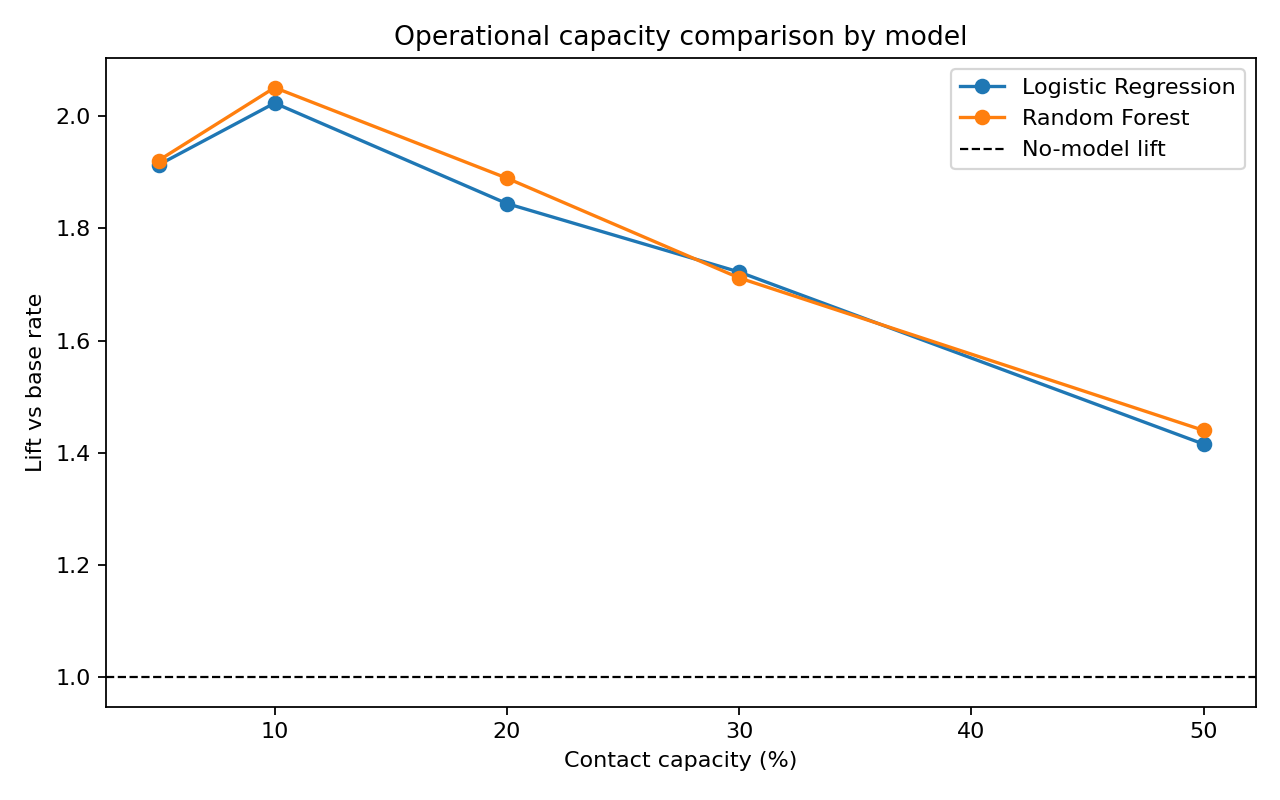
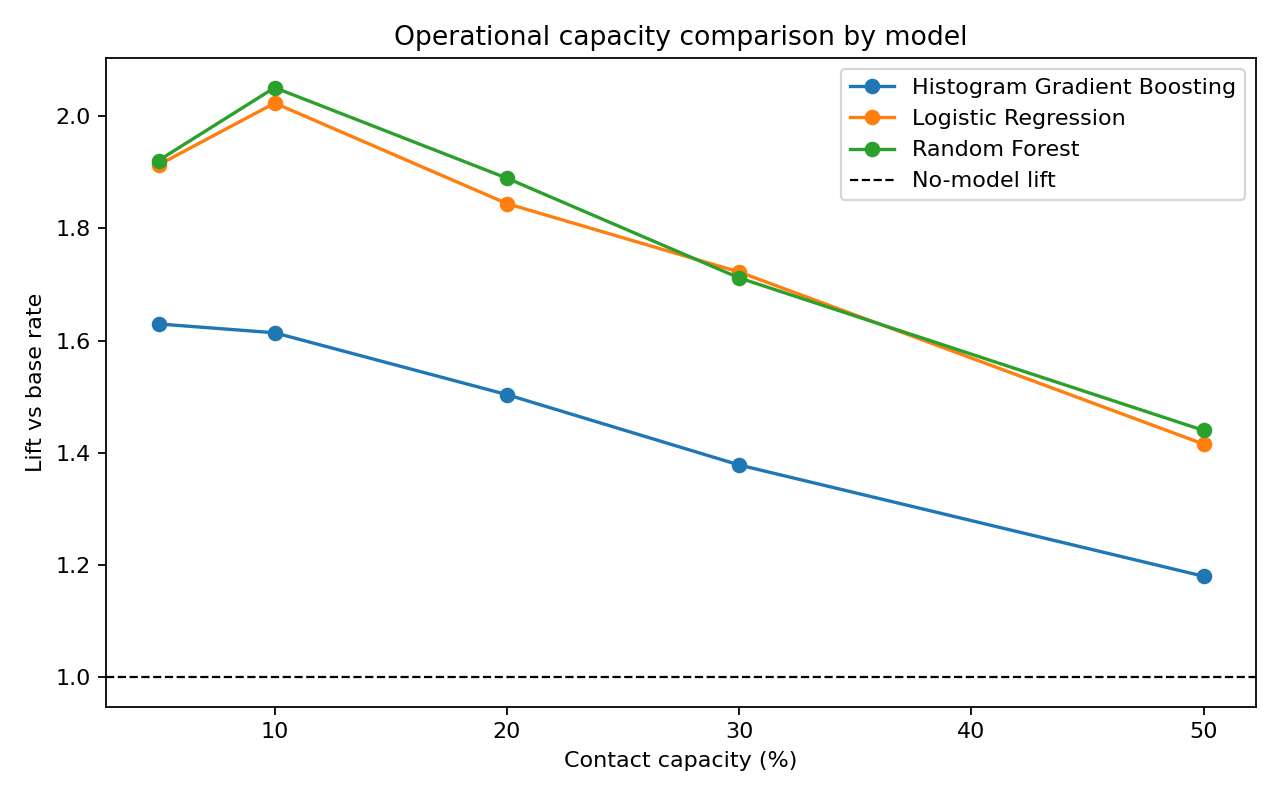
Phase 7.3: three-model comparison + permutation importance
- Add scikit-learn HistGradientBoostingClassifier as the canonical third model,
  replacing the gated XGBoost path (brew/libomp is unusable here and a platform
  OpenMP dependency would break the cross-platform CI drift guard)
- Add permutation importance on the temporal holdout (predictive association
  only, never causal): feature_importance.csv + visuals/feature_importance.png
- Pin OMP_NUM_THREADS=1; verified two consecutive runs are byte-identical
- RF stays operational (wins internal-validation AP); capacity/calibration
  numbers unchanged
- Drop xgboost from requirements.txt; update README/model card/tests (15 passing)
- Record the plan amendment in MEMORY.md per the conflict rule

diff --git a/scripts/run_modeling.py b/scripts/run_modeling.py
@@ -17,6 +17,15 @@ Decision-layer contract:
 
 from __future__ import annotations
 
+import os
+
+# Pin single-threaded numerics before sklearn/numpy import so histogram and BLAS
+# reductions are byte-identical across runs (required by the CI drift guard).
+os.environ.setdefault("OMP_NUM_THREADS", "1")
+os.environ.setdefault("OPENBLAS_NUM_THREADS", "1")
+os.environ.setdefault("MKL_NUM_THREADS", "1")
+os.environ.setdefault("VECLIB_MAXIMUM_THREADS", "1")
+
 import json
 from pathlib import Path
 
@@ -25,8 +34,9 @@ import numpy as np
 import pandas as pd
 from scipy.stats import binomtest, spearmanr
 from sklearn.compose import ColumnTransformer
-from sklearn.ensemble import RandomForestClassifier
+from sklearn.ensemble import HistGradientBoostingClassifier, RandomForestClassifier
 from sklearn.impute import SimpleImputer
+from sklearn.inspection import permutation_importance
 from sklearn.isotonic import IsotonicRegression
 from sklearn.linear_model import LogisticRegression
 from sklearn.metrics import (
@@ -43,13 +53,6 @@ from sklearn.pipeline import Pipeline
 from sklearn.preprocessing import OneHotEncoder, StandardScaler
 
 from sklearn.calibration import calibration_curve
-
-try:
-    from xgboost import XGBClassifier
-    XGBOOST_IMPORT_ERROR = None
-except Exception as exc:  # pragma: no cover - platform prerequisite is environment-specific
-    XGBClassifier = None
-    XGBOOST_IMPORT_ERROR = str(exc)
 
 
 REPO_ROOT = Path(__file__).resolve().parents[1]
@@ -117,19 +120,14 @@ def model_factories(positive_weight: float):
             random_state=RANDOM_STATE,
         ),
     }
-    if XGBClassifier is not None:
-        factories["XGBoost"] = lambda: XGBClassifier(
-            n_estimators=300,
-            max_depth=4,
-            learning_rate=0.05,
-            subsample=0.8,
-            colsample_bytree=0.8,
-            scale_pos_weight=positive_weight,
-            objective="binary:logistic",
-            eval_metric="logloss",
-            random_state=RANDOM_STATE,
-            n_jobs=1,
-        )
+    factories["Histogram Gradient Boosting"] = lambda: HistGradientBoostingClassifier(
+        max_iter=300,
+        learning_rate=0.05,
+        max_leaf_nodes=31,
+        l2_regularization=0.0,
+        early_stopping=False,
+        random_state=RANDOM_STATE,
+    )
     return factories
 
 
@@ -254,6 +252,27 @@ def build_capacity_by_model(y_test: pd.Series, probabilities: dict[str, np.ndarr
                 }
             )
     return pd.DataFrame(rows)
+
+
+def build_feature_importance(pipeline: Pipeline, x_test: pd.DataFrame, y_test: pd.Series) -> pd.DataFrame:
+    """Permutation importance on the holdout — predictive association, not causation."""
+    result = permutation_importance(
+        pipeline,
+        x_test,
+        y_test,
+        scoring="average_precision",
+        n_repeats=5,
+        random_state=RANDOM_STATE,
+        n_jobs=1,
+    )
+    frame = pd.DataFrame(
+        {
+            "feature": list(x_test.columns),
+            "importance_mean": result.importances_mean,
+            "importance_std": result.importances_std,
+        }
+    )
+    return frame.sort_values("importance_mean", ascending=False, kind="stable").reset_index(drop=True)
 
 
 def expected_calibration_error(y_true: np.ndarray, probabilities: np.ndarray, n_bins: int = 10) -> float:
@@ -416,6 +435,7 @@ def make_visuals(
     cumulative_gains: pd.DataFrame,
     capacity_by_model: pd.DataFrame,
     leakage: pd.DataFrame,
+    feature_importance: pd.DataFrame,
     shift: pd.DataFrame,
 ) -> None:
     VISUAL_DIR.mkdir(parents=True, exist_ok=True)
@@ -473,6 +493,14 @@ def make_visuals(
     fig.savefig(VISUAL_DIR / "leakage_comparison.png", dpi=160)
     plt.close(fig)
 
+    top_features = feature_importance.head(10).sort_values("importance_mean")
+    fig, ax = plt.subplots(figsize=(8, 5))
+    ax.barh(top_features["feature"], top_features["importance_mean"], xerr=top_features["importance_std"])
+    ax.set(xlabel="Drop in average precision when permuted", title=f"{selected_name}: permutation importance (holdout)")
+    fig.tight_layout()
+    fig.savefig(VISUAL_DIR / "feature_importance.png", dpi=160)
+    plt.close(fig)
+
     psi_rows = shift.dropna(subset=["psi"]).sort_values("psi")
     fig, ax = plt.subplots(figsize=(8, 5))
     ax.barh(psi_rows["feature"], psi_rows["psi"])
@@ -491,6 +519,7 @@ def write_model_card(
     capacity: pd.DataFrame,
     shift: pd.DataFrame,
     leakage: pd.DataFrame,
+    feature_importance: pd.DataFrame,
 ) -> None:
     path = REPO_ROOT / "docs" / "model_card.md"
     path.parent.mkdir(parents=True, exist_ok=True)
@@ -509,6 +538,9 @@ def write_model_card(
     leakage_gap_low = float(forest_rows.loc["naive_full_information", "roc_auc_gap_ci_low"])
     leakage_gap_high = float(forest_rows.loc["naive_full_information", "roc_auc_gap_ci_high"])
     brier_diff = selection["calibration"]["brier_difference_uncalibrated_minus_isotonic"]
+    top_features = ", ".join(
+        f"`{row.feature}` ({row.importance_mean:.3f})" for row in feature_importance.head(5).itertuples()
+    )
     card = f"""# Campaign Prophet model card
 
 ## Purpose
@@ -570,6 +602,12 @@ deployable pre-contact model on an identical random split. Random Forest ROC-AUC
 bootstrap gap is **{leakage_gap:+.4f}** ({leakage_gap_low:+.4f}, {leakage_gap_high:+.4f}). That is the
 measured operational cost of the decision-time feature policy. See `leakage_comparison.csv` and
 `visuals/leakage_comparison.png`.
+
+## Feature importance (predictive)
+
+Permutation importance on the temporal holdout (drop in average precision) ranks
+{top_features}. This is a predictive-association measure, **not a causal effect**.
+See `feature_importance.csv` and `visuals/feature_importance.png`.
 
 ## Distribution shift
 
@@ -719,6 +757,9 @@ def main() -> None:
     capacity_by_model = build_capacity_by_model(y_temporal_test, temporal_probabilities)
     capacity_by_model.to_csv(OUTPUT_DIR / "capacity_table_by_model.csv", index=False)
 
+    feature_importance = build_feature_importance(decision_pipeline, x_temporal_test, y_temporal_test)
+    feature_importance.to_csv(OUTPUT_DIR / "feature_importance.csv", index=False)
+
     total_subscribers = scored["actual_subscription"].sum()
     gain_rows = []
     for percent in range(1, 101):
@@ -770,9 +811,11 @@ def main() -> None:
             "brier_difference_ci_high": round(brier_high, 6),
         },
         "operational_scenario": economics,
-        "xgboost_available": XGBClassifier is not None,
-        "xgboost_import_error": XGBOOST_IMPORT_ERROR,
-        "model_scope": "three-model comparison (XGBoost)" if XGBClassifier is not None else "two-model scope: Logistic Regression and Random Forest",
+        "model_scope": "three-model comparison: Logistic Regression, Random Forest, Histogram Gradient Boosting",
+        "permutation_importance": {
+            "scope": "predictive_association_only",
+            "evaluated_on": "source_order_temporal_holdout",
+        },
     }
     (OUTPUT_DIR / "model_selection.json").write_text(json.dumps(selection, indent=2) + "\n", encoding="utf-8")
     make_visuals(
@@ -784,13 +827,12 @@ def main() -> None:
         gains,
         capacity_by_model,
         leakage,
+        feature_importance,
         shift,
     )
-    write_model_card(selection, calibration, capacity, shift, leakage)
+    write_model_card(selection, calibration, capacity, shift, leakage, feature_importance)
 
     print(f"Selected model on internal validation: {selected_name}")
-    if XGBOOST_IMPORT_ERROR:
-        print("XGBoost skipped: macOS OpenMP runtime not installed; two-model scope documented.")
     print(f"Holdout uncalibrated ROC-AUC: {calibration.loc['Uncalibrated', 'roc_auc']:.4f}")
     print(f"Calibration ranking Spearman (gate > 0.99): {ranking_spearman:.4f}")
     print(f"Brier diff (uncal - isotonic): {brier_mean:+.4f} [{brier_low:+.4f}, {brier_high:+.4f}]")

diff --git a/tests/test_pipeline_contract.py b/tests/test_pipeline_contract.py
@@ -53,9 +53,27 @@ def test_generated_artifact_set_is_complete():
         "cumulative_gains.csv",
         "leakage_comparison.csv",
         "distribution_shift.csv",
+        "feature_importance.csv",
     }
     produced = {path.name for path in (ROOT / "outputs" / "notebook_02").glob("*")}
     assert expected.issubset(produced)
+
+
+def test_model_comparison_is_three_model():
+    metrics = pd.read_csv(ROOT / "outputs" / "notebook_02" / "model_metrics.csv")
+    models = set(metrics["model"])
+    assert {"Logistic Regression", "Random Forest", "Histogram Gradient Boosting"}.issubset(models)
+    selection = json.loads((ROOT / "outputs" / "notebook_02" / "model_selection.json").read_text())
+    assert "three-model" in selection["model_scope"]
+
+
+def test_feature_importance_is_predictive_only():
+    importance = pd.read_csv(ROOT / "outputs" / "notebook_02" / "feature_importance.csv")
+    assert {"feature", "importance_mean", "importance_std"}.issubset(importance.columns)
+    assert importance["importance_mean"].is_monotonic_decreasing
+    assert len(importance) > 0
+    selection = json.loads((ROOT / "outputs" / "notebook_02" / "model_selection.json").read_text())
+    assert selection["permutation_importance"]["scope"] == "predictive_association_only"
 
 
 def test_leakage_comparison_quantifies_the_feature_policy_cost():
@@ -118,7 +136,7 @@ def test_capacity_table_is_consistent_with_ranked_holdout():
 
 def test_capacity_model_comparison_is_published():
     by_model = pd.read_csv(ROOT / "outputs" / "notebook_02" / "capacity_table_by_model.csv")
-    assert {"Logistic Regression", "Random Forest"}.issubset(set(by_model["model"]))
+    assert {"Logistic Regression", "Random Forest", "Histogram Gradient Boosting"}.issubset(set(by_model["model"]))
     top10 = by_model[by_model["capacity_percent"] == 10].set_index("model")
     # The higher-AUC model must not change the operational decision materially.
     assert abs(top10.loc["Random Forest", "responders_captured"] - top10.loc["Logistic Regression", "responders_captured"]) <= 50

diff --git a/README.md b/README.md
@@ -9,7 +9,7 @@
 [![pandas](https://img.shields.io/badge/pandas-2.3-150458?style=flat-square&logo=pandas&logoColor=white)](https://pandas.pydata.org)
 [![Version](https://img.shields.io/badge/Version-V2-6f42c1?style=flat-square)](https://github.com/Lakshmi-Sindhu-P/Campaign-Prophet)
 [![Status](https://img.shields.io/badge/Status-Portfolio-FFB300?style=flat-square)](https://github.com/Lakshmi-Sindhu-P/Campaign-Prophet)
-[![Tests](https://img.shields.io/badge/pytest-13_passing-1D9E75?style=flat-square&logo=pytest&logoColor=white)](tests/test_pipeline_contract.py)
+[![Tests](https://img.shields.io/badge/pytest-15_passing-1D9E75?style=flat-square&logo=pytest&logoColor=white)](tests/test_pipeline_contract.py)
 [![License](https://img.shields.io/badge/License-MIT-1D9E75?style=flat-square)](LICENSE)
 
 <br/>
@@ -136,11 +136,12 @@ Models are selected by Average Precision on an **internal validation slice of th
 | Model | Benchmark ROC-AUC | Benchmark AP | Holdout ROC-AUC | Holdout AP |
 |:------|------------------:|-------------:|----------------:|-----------:|
 | 🥇 🌲 **Random Forest** `operational` | **0.8126** | **0.4822** | **0.7180** | **0.5151** |
-| 🥉 📐 Logistic Regression `baseline` | 0.8009 | 0.4439 | 0.6953 | 0.5017 |
+| 🌳 **Histogram Gradient Boosting** `boosting` | 0.8047 | 0.4759 | 0.5990 | 0.4059 |
+| 📐 **Logistic Regression** `baseline` | 0.8009 | 0.4439 | 0.6953 | 0.5017 |
 
 <br/>
 
-**Random Forest** leads on ranking quality and is the operational model. The pipeline runs a formally scoped **two-model comparison**; XGBoost is wired but gated on the macOS OpenMP runtime (`libomp`) and was **not** included in these results.
+**Random Forest** leads on ranking quality and is the operational model, selected on the internal validation slice. The pipeline runs a **three-model comparison** — Logistic Regression, Random Forest, and Histogram Gradient Boosting. All three are pure scikit-learn, so there is **no system OpenMP dependency** and the pipeline is reproducible across platforms and CI.
 
 <details>
 <summary>🔓 &nbsp;<b>The leakage cost, measured (not asserted)</b></summary>
@@ -152,6 +153,7 @@ A naive model allowed to use `duration` and `campaign` is trained on the **same*
 | Model | Pre-contact ROC-AUC | Naive full-information | Paired gap (95% CI) | Top-decile lift |
 |:------|--------------------:|-----------------------:|:-------------------:|:---------------:|
 | 🌲 Random Forest | 0.8126 | **0.9480** | **+0.1352** (0.121–0.150) | 4.66× → 5.60× |
+| 🌳 Histogram Gradient Boosting | 0.8047 | **0.9510** | **+0.1459** (0.131–0.162) | 4.74× → 5.72× |
 | 📐 Logistic Regression | 0.8009 | **0.9403** | **+0.1390** (0.121–0.155) | 4.46× → 5.43× |
 
 That ~13.5-point gap is exactly the value a leaky model would have captured — and exactly why it cannot be used operationally.
@@ -318,6 +320,9 @@ Two thin, runnable notebooks wrap the scripts; run them from the repository root
 </p>
 <p align="center">
   <img src="visuals/calibration_curve.png" width="49%"/>
+  <img src="visuals/feature_importance.png" width="49%"/>
+</p>
+<p align="center">
   <img src="visuals/cumulative_gains.png" width="49%"/>
 </p>
 
@@ -387,7 +392,7 @@ Two thin, runnable notebooks wrap the scripts; run them from the repository root
 - [x] Phase 4 — Capacity policy + narrative re-center
 - [x] Phase 5 — Capacity recommendation CLI
 - [x] Phase 6 — Randomised-holdback experiment design + power analysis
-- [ ] Optional — XGBoost three-model comparison (requires `brew install libomp`)
+- [x] Phase 7.3 — Three-model comparison incl. Histogram Gradient Boosting + permutation importance
 - [ ] Optional — External / new-period validation with true timestamps
 
 ---
@@ -415,7 +420,7 @@ python3 -m venv .venv
 .venv/bin/python -m pytest
 ```
 
-On macOS, XGBoost requires the OpenMP runtime (`brew install libomp`). Without it the pipeline runs a formally scoped **two-model comparison**.
+All three models are pure scikit-learn with single-threaded numerics (`OMP_NUM_THREADS=1`, `n_jobs=1`), so the pipeline needs no system OpenMP runtime and re-runs are byte-identical.
 
 ---
 

diff --git a/MEMORY.md b/MEMORY.md
@@ -35,11 +35,16 @@ them. It is a portfolio analysis, not a production banking system.
 **Artifacts (`outputs/notebook_02/`).** `model_metrics.csv`, `validation_metrics.csv`,
 `leakage_comparison.csv`, `calibration_metrics.csv`, `distribution_shift.csv`,
 `scored_temporal_holdout.csv`, `capacity_table.csv`, `capacity_table_by_model.csv`,
-`cumulative_gains.csv`, `model_selection.json`.
+`cumulative_gains.csv`, `feature_importance.csv`, `model_selection.json`.
+
+**Model scope.** Three canonical models: Logistic Regression, Random Forest, and
+Histogram Gradient Boosting (sklearn). Random Forest is operational (selected on the internal
+validation slice).
 
 **Tech stack.** Python 3.10–3.14; numpy 2.3.3; pandas 2.3.3; scipy 1.16.2;
-scikit-learn 1.7.2; xgboost 3.0.4 (**optional/gated** on macOS OpenMP `libomp`);
+scikit-learn 1.7.2 (all three models, incl. `HistGradientBoostingClassifier`);
 matplotlib 3.10.6; seaborn 0.13.2; jupyterlab 4.4.7 / nbconvert 7.16.6; pytest 8.4.2.
+No system OpenMP dependency: single-threaded numerics via `OMP_NUM_THREADS=1`.
 
 **Folder structure.**
 ```
@@ -82,6 +87,10 @@ First 80% = training period; final 20% = temporal holdout. Within the training p
   **2.05×** lift; top-20% **37.8% / 1.89×**.
 - Calibration does not transfer: uncalibrated Brier **0.2257** vs isotonic **0.2472**
   (paired diff −0.0215, CI −0.0296 to −0.0129); ranking preserved (Spearman 0.9956).
+- Third model (Histogram Gradient Boosting): benchmark ROC-AUC **0.8047**, holdout **0.5990**;
+  naive full-info **0.9510** (largest leakage gap **+0.1459**). Does not beat RF on internal
+  validation, so RF stays operational.
+- Permutation importance (holdout, RF): top features `poutcome`, `pdays`, `month`.
 
 ---
 
@@ -115,8 +124,9 @@ First 80% = training period; final 20% = temporal holdout. Within the training p
   `jupyter nbconvert --to notebook --execute --inplace --ExecutePreprocessor.timeout=900`.
 - Raw data is never committed; only the processed CSV and regeneration script.
 - No financial targeting recommendation is ever published; economics are labeled scenarios.
-- If XGBoost cannot import (missing `libomp`), document the **two-model scope**; do not install
-  system dependencies without asking.
+- Models must be **pure scikit-learn** so they run identically on macOS and CI without system
+  dependencies; do not add estimators that require a system OpenMP runtime. Keep
+  `OMP_NUM_THREADS=1` / `n_jobs=1` so artifacts stay byte-identical.
 
 **Commit style.** Terse, imperative; recent history uses short messages (e.g. "Update
 README.md"). Group a phase of work into one coherent commit.
@@ -166,3 +176,11 @@ Append new entries at the bottom. Format: `YYYY-MM-DD — decision — rationale
   calibration artifacts. Rationale: the repo claims mechanical reproducibility, so consumed
   float values should be deterministic, not just equal to displayed precision. No published
   metric changed.
+- **2026-09 (Phase 7.3 — plan amendment)** — XGBoost **replaced by scikit-learn
+  `HistGradientBoostingClassifier`** as the canonical third model. Reason: `brew install libomp`
+  is impossible in this environment (Homebrew owned by another user, no sudo), and an
+  XGBoost-on-macOS vs XGBoost-on-Linux dependency would break the cross-platform CI drift guard.
+  Pure sklearn keeps one artifact set everywhere and stays byte-identical. This reverses the
+  earlier "XGBoost optional/gated" decision and the locked Phase 7 wording; documented here per
+  the conflict rule. Also added permutation importance (predictive association only). Removed
+  `xgboost` from `requirements.txt`.

diff --git a/docs/model_card.md b/docs/model_card.md
@@ -64,6 +64,12 @@ bootstrap gap is **+0.1352** (+0.1211, +0.1503). That is the
 measured operational cost of the decision-time feature policy. See `leakage_comparison.csv` and
 `visuals/leakage_comparison.png`.
 
+## Feature importance (predictive)
+
+Permutation importance on the temporal holdout (drop in average precision) ranks
+`poutcome` (0.078), `pdays` (0.045), `month` (0.038), `contact` (0.007), `default` (0.006). This is a predictive-association measure, **not a causal effect**.
+See `feature_importance.csv` and `visuals/feature_importance.png`.
+
 ## Distribution shift
 
 The training-period subscription rate is 6.4% against a holdout rate of
